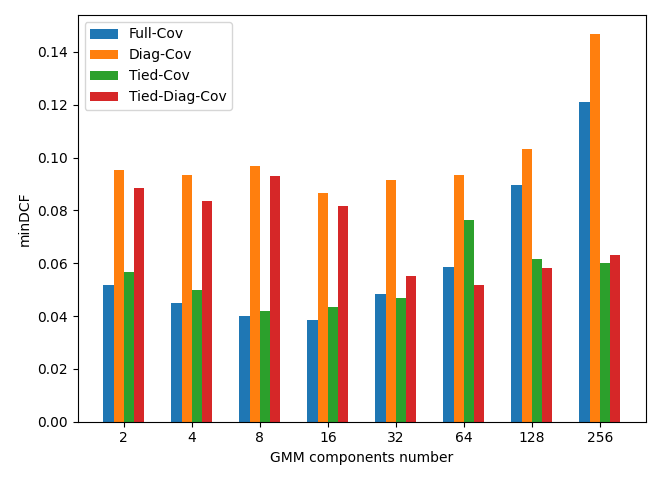
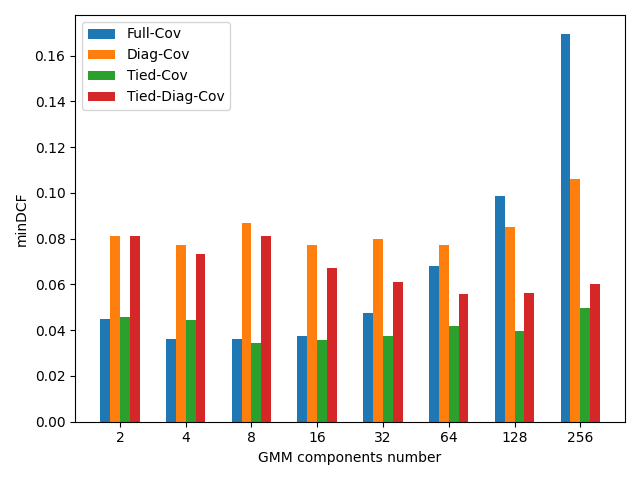
New plots

diff --git a/plots.py b/plots.py
@@ -86,13 +86,14 @@ def linear_svm_plot():
     plt.show()
 
 
-def gmm_plot(noPca, pca8):
+def gmm_plot(noPca, pca8, title, file_name):
     labels = [2,4,8,16,32,64,128,256]
 
     x = np.arange(len(labels))  # the label locations
     width = 0.35  # the width of the bars
 
     fig, ax = plt.subplots()
+    # plt.suptitle(title)
     rects1 = ax.bar(x - width / 2, noPca, width, label='No PCA')
     rects2 = ax.bar(x + width / 2, pca8, width, label='PCA (m = 8)')
 
@@ -107,16 +108,17 @@ def gmm_plot(noPca, pca8):
 
     fig.tight_layout()
 
-    plt.show()
+    plt.savefig(file_name)
 
 
-def gmm_plot2(em, diag, tied, tied_diag):
+def gmm_plot2(em, diag, tied, tied_diag, title, file_name):
     labels = [2,4,8,16,32,64,128,256]
 
     x = np.arange(len(labels))  # the label locations
     width = 0.15  # the width of the bars
 
     fig, ax = plt.subplots()
+    # plt.suptitle(title)
     rects1 = ax.bar(x - width*1.5, em, width, label='Full-Cov')
     rects2 = ax.bar(x - width / 2, diag, width, label='Diag-Cov')
     rects3 = ax.bar(x + width / 2, tied, width, label='Tied-Cov')
@@ -133,7 +135,35 @@ def gmm_plot2(em, diag, tied, tied_diag):
 
     fig.tight_layout()
 
-    plt.show()
+    plt.savefig(file_name)
+
+
+def gmm_plot_main():
+    """
+    Single fold
+    pcaF_em = np.array([0.054989, 0.046805, 0.035020, 0.046538, 0.048455, 0.078324, 0.116378, 0.211705])
+    pcaF_diag = np.array([0.371721, 0.138897, 0.107761, 0.099810, 0.091926, 0.085259, 0.093476, 0.125463])
+    pca8_em = np.array([0.051789, 0.044988, 0.039971, 0.038387, 0.048255, 0.058389, 0.089776, 0.121162])
+    pca8_diag = np.array([0.095260, 0.093443, 0.096943, 0.086609, 0.091492, 0.093343, 0.103210, 0.146615])
+    pcaF_tied = np.array([0.061823, 0.036670, 0.036637, 0.039971, 0.039971, 0.040237, 0.038287, 0.040037])
+    pcaF_tied_diag = np.array([0.366137, 0.134963, 0.099877, 0.106511, 0.080141, 0.079808, 0.086409, 0.086542])
+    pca8_tied = np.array([0.056772, 0.050005, 0.041721, 0.043338, 0.046671, 0.076474, 0.061523, 0.060139])
+    pca8_tied_diag = np.array([0.088459, 0.083542, 0.092976, 0.081658, 0.054989, 0.051822, 0.058356, 0.063273])
+    """
+    pcaF_em = np.array([0.043000, 0.032667, 0.032333, 0.044000, 0.056000, 0.087667, 0.150667, 0.313000])
+    pcaF_diag = np.array([0.381667, 0.107667, 0.086667, 0.081000, 0.088000, 0.085667, 0.095667, 0.120000])
+    pcaF_tied = np.array([0.048000, 0.029667, 0.030000, 0.031667, 0.032333, 0.036667, 0.040333, 0.044000])
+    pcaF_tied_diag = np.array([0.380333, 0.104667, 0.082333, 0.083333, 0.072000, 0.067667, 0.069000, 0.070667])
+    pca8_em = np.array([0.045000, 0.036000, 0.036333, 0.037667, 0.047667, 0.068000, 0.098667, 0.169333])
+    pca8_diag = np.array([0.081333, 0.077333, 0.087000, 0.077333, 0.080000, 0.077333, 0.085000, 0.106000])
+    pca8_tied = np.array([0.045667, 0.044667, 0.034333, 0.035667, 0.037333, 0.041667, 0.039667, 0.049667])
+    pca8_tied_diag = np.array([0.081333, 0.073333, 0.081333, 0.067000, 0.061000, 0.056000, 0.056333, 0.060333])
+    gmm_plot(pcaF_em, pca8_em, 'GMM results, Full Covariance', 'plots/gmm_em.png')
+    gmm_plot(pcaF_diag, pca8_diag, 'GMM results, Diagonal Covariance', 'plots/gmm_diag.png')
+    gmm_plot(pcaF_tied, pca8_tied, 'GMM results, Tied Full Covariance', 'plots/gmm_tied.png')
+    gmm_plot(pcaF_tied_diag, pca8_tied_diag, 'GMM results, Tied Diagonal Covariance', 'plots/gmm_tied_diag.png')
+    gmm_plot2(pcaF_em, pcaF_diag, pcaF_tied, pcaF_tied_diag, 'GMM results, no PCA', 'plots/gmm_pcaF.png')
+    gmm_plot2(pca8_em, pca8_diag, pca8_tied, pca8_tied_diag, 'GMM results, PCA (m = 8)', 'plots/gmm_pca8.png')
 
 
 def lr_plot():
@@ -245,34 +275,6 @@ def quad_lr_plot():
     plt.show()
 
 
-def gmm_plot_main():
-    """
-    Single fold
-    pcaF_em = np.array([0.054989, 0.046805, 0.035020, 0.046538, 0.048455, 0.078324, 0.116378, 0.211705])
-    pcaF_diag = np.array([0.371721, 0.138897, 0.107761, 0.099810, 0.091926, 0.085259, 0.093476, 0.125463])
-    pca8_em = np.array([0.051789, 0.044988, 0.039971, 0.038387, 0.048255, 0.058389, 0.089776, 0.121162])
-    pca8_diag = np.array([0.095260, 0.093443, 0.096943, 0.086609, 0.091492, 0.093343, 0.103210, 0.146615])
-    pcaF_tied = np.array([0.061823, 0.036670, 0.036637, 0.039971, 0.039971, 0.040237, 0.038287, 0.040037])
-    pcaF_tied_diag = np.array([0.366137, 0.134963, 0.099877, 0.106511, 0.080141, 0.079808, 0.086409, 0.086542])
-    pca8_tied = np.array([0.056772, 0.050005, 0.041721, 0.043338, 0.046671, 0.076474, 0.061523, 0.060139])
-    pca8_tied_diag = np.array([0.088459, 0.083542, 0.092976, 0.081658, 0.054989, 0.051822, 0.058356, 0.063273])
-    """
-    pcaF_em = np.array([0.043000, 0.032667, 0.032333, 0.044000, 0.056000, 0.087667, 0.150667, 0.313000])
-    pcaF_diag = np.array([0.381667, 0.107667, 0.086667, 0.081000, 0.088000, 0.085667, 0.095667, 0.120000])
-    pcaF_tied = np.array([0.048000, 0.029667, 0.030000, 0.031667, 0.032333, 0.036667, 0.040333, 0.044000])
-    pcaF_tied_diag = np.array([0.380333, 0.104667, 0.082333, 0.083333, 0.072000, 0.067667, 0.069000, 0.070667])
-    pca8_em = np.array([0.045000, ])
-    pca8_diag = np.array([0.081333, ])
-    pca8_tied = np.array([0.045667, ])
-    pca8_tied_diag = np.array([0.081333, ])
-    gmm_plot(pcaF_em, pca8_em)
-    gmm_plot(pcaF_diag, pca8_diag)
-    gmm_plot(pcaF_tied, pca8_tied)
-    gmm_plot(pcaF_tied_diag, pca8_tied_diag)
-    gmm_plot2(pcaF_em, pcaF_diag, pcaF_tied, pcaF_tied_diag)
-    gmm_plot2(pca8_em, pca8_diag, pca8_tied, pca8_tied_diag)
-
-
 if __name__ == '__main__':
     """
     trainX, trainL = load.load("data/Train")
@@ -284,4 +286,4 @@ if __name__ == '__main__':
     # optimal_decisions.roc_plot(S1, LTE)
     optimal_decisions.bayes_error_plot([(S1, "GMM", 'r'), (S2, "MVG", 'b')], trueL)
     """
-    quad_lr_plot()
+    gmm_plot_main()
